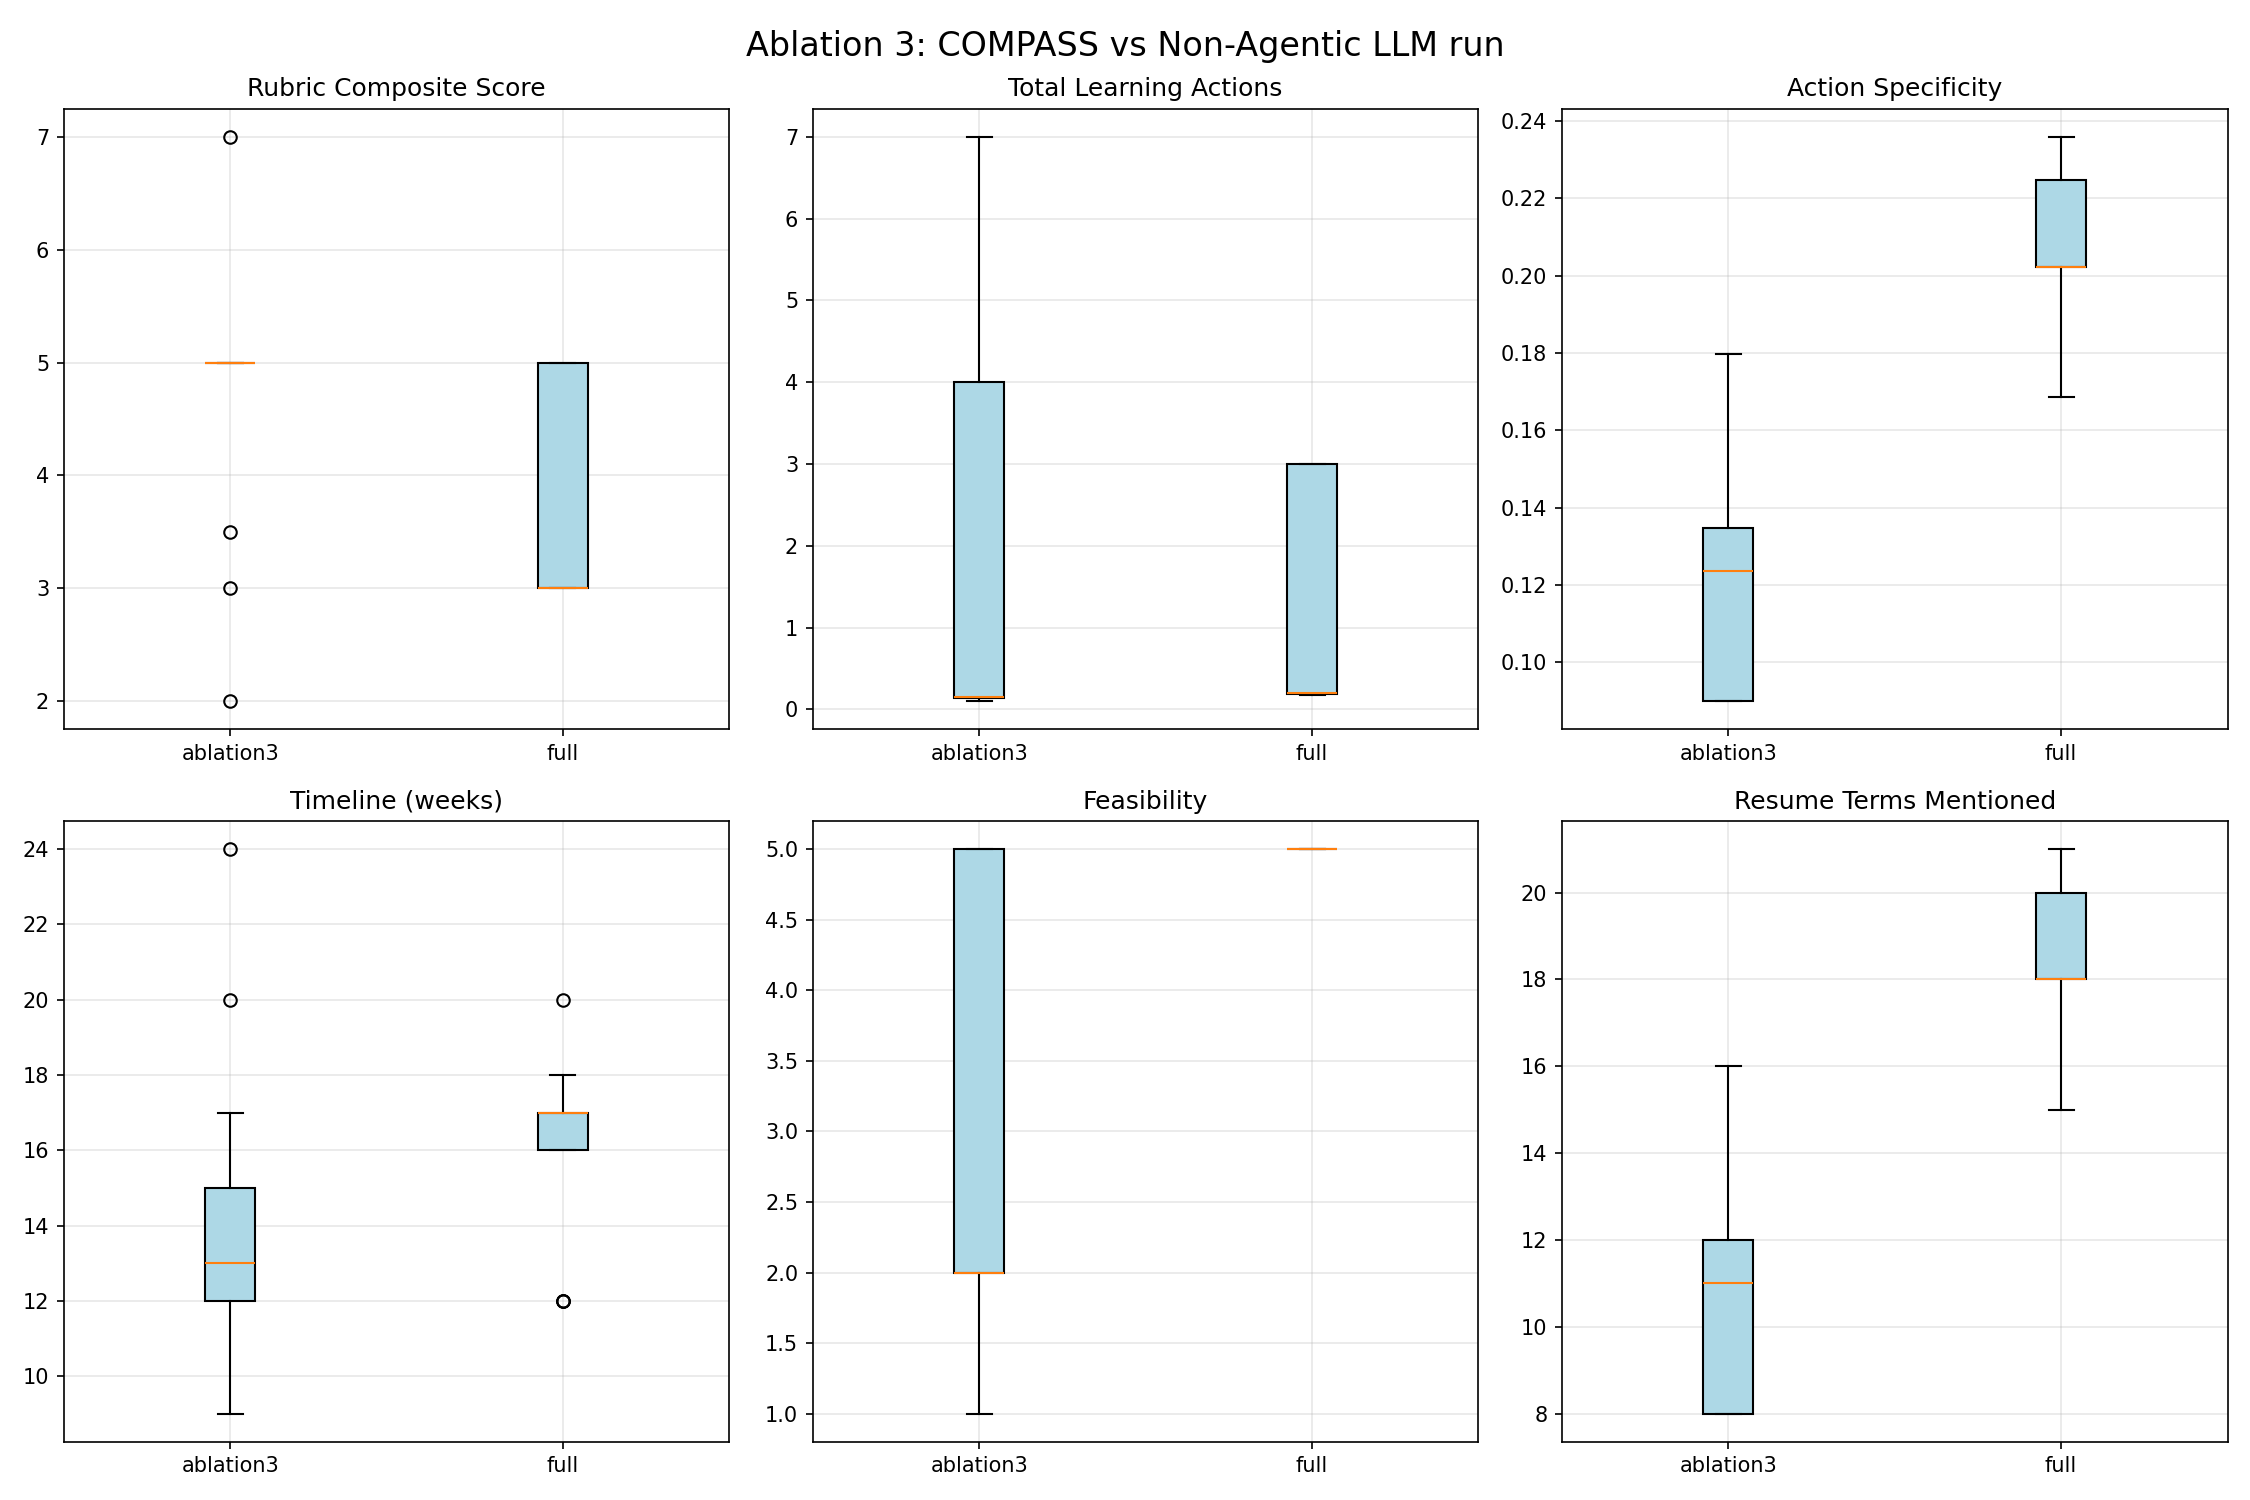
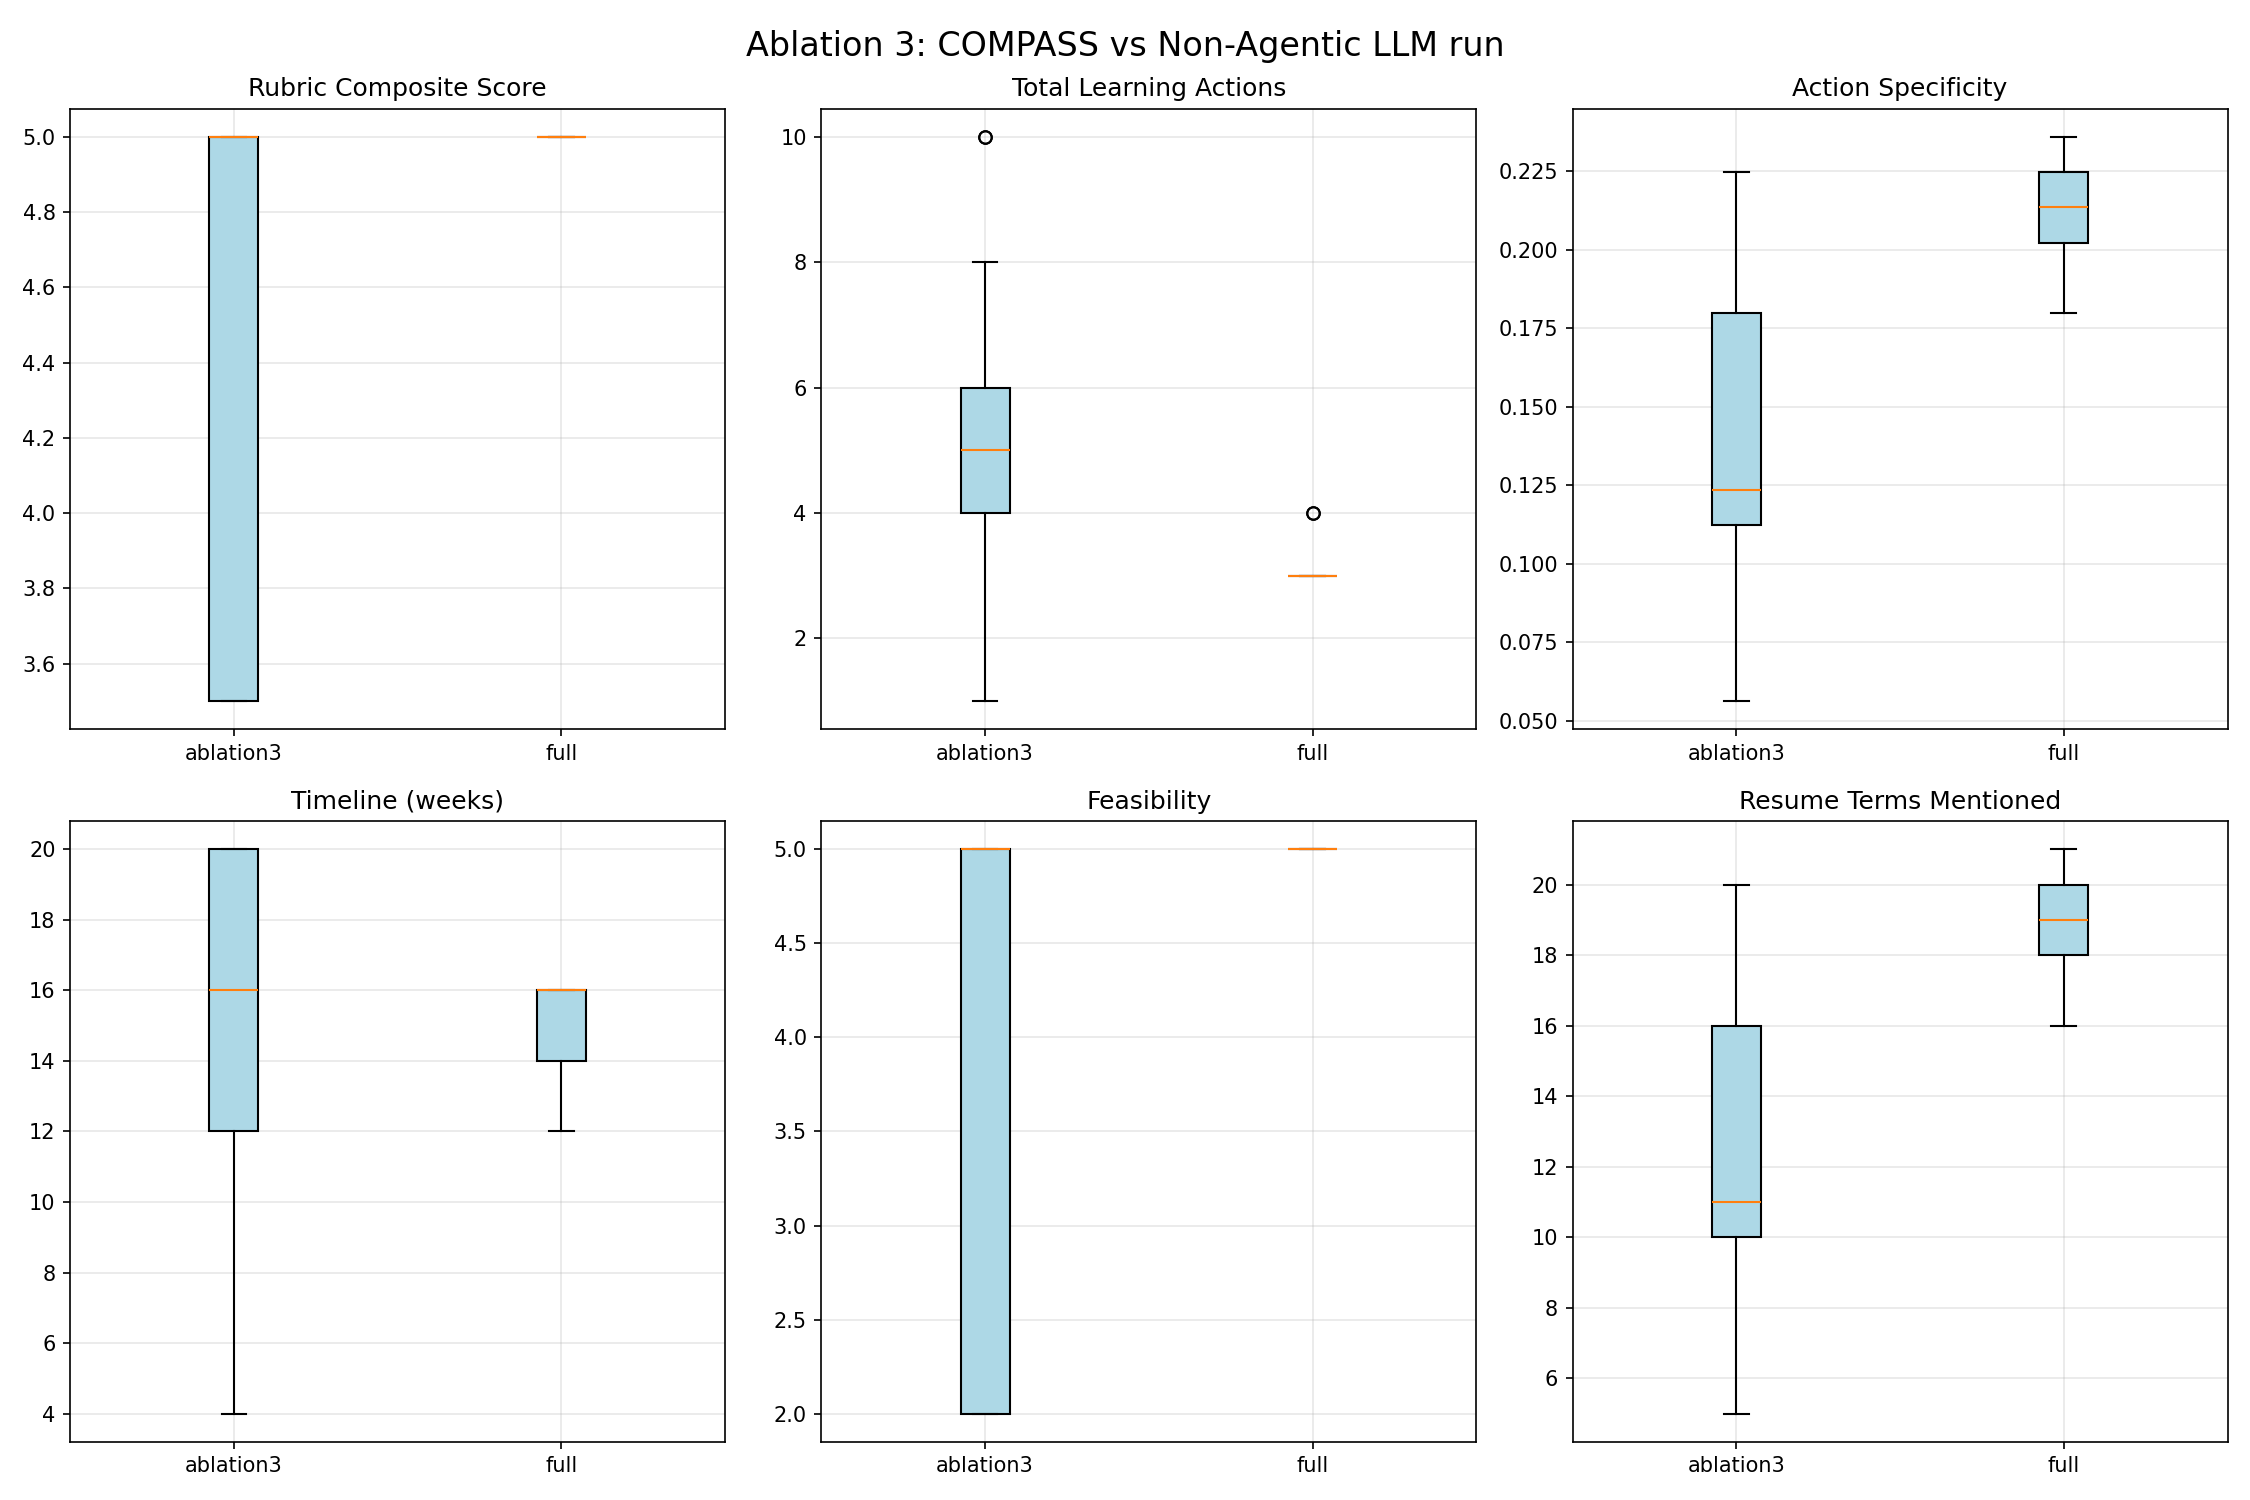
Refactor code structure for improved readability and maintainability

diff --git a/server/analyze_metrics.py b/server/analyze_metrics.py
@@ -261,6 +261,75 @@ def main():
             print(f"  [OK] Saved to {plot_path}")
             plt.close()
 
+            # --- Radar chart: rubric dimensions per condition ---
+            radar_metrics = [
+                ('rubric_composite', 'Composite'),
+                ('rubric_feasibility', 'Feasibility'),
+                ('rubric_level_appropriateness', 'Level\nAppropriateness'),
+                ('rubric_gap_coverage', 'Gap\nCoverage'),
+                ('action_specificity_ratio', 'Action\nSpecificity'),
+            ]
+            radar_labels = [label for _, label in radar_metrics]
+            num_vars = len(radar_labels)
+            angles = np.linspace(0, 2 * np.pi, num_vars, endpoint=False).tolist()
+            angles += angles[:1]  # close the polygon
+
+            fig_r, ax_r = plt.subplots(figsize=(7, 7), subplot_kw=dict(polar=True))
+            fig_r.suptitle("Rubric Profile by Condition", fontsize=14)
+
+            colors = ['#2196F3', '#FF5722', '#4CAF50', '#9C27B0']
+            for color, condition in zip(colors, sorted(grouped.keys())):
+                condition_rows = grouped[condition]
+                vals = []
+                for metric_key, _ in radar_metrics:
+                    raw = [r.get(metric_key) for r in condition_rows]
+                    valid = [v for v in raw if v is not None and isinstance(v, (int, float))]
+                    vals.append(mean(valid) if valid else 0.0)
+                vals += vals[:1]
+                ax_r.plot(angles, vals, color=color, linewidth=2, label=condition)
+                ax_r.fill(angles, vals, color=color, alpha=0.15)
+
+            ax_r.set_xticks(angles[:-1])
+            ax_r.set_xticklabels(radar_labels, size=10)
+            ax_r.set_ylim(0, 5)
+            ax_r.set_yticks([1, 2, 3, 4, 5])
+            ax_r.set_yticklabels(['1', '2', '3', '4', '5'], size=8)
+            ax_r.legend(loc='upper right', bbox_to_anchor=(1.3, 1.1))
+            ax_r.grid(True)
+
+            radar_path = args.output / "radar_chart.png"
+            plt.savefig(radar_path, dpi=150, bbox_inches='tight')
+            print(f"  [OK] Saved to {radar_path}")
+            plt.close()
+
+            # --- Bar chart: satisfactory rate per condition ---
+            conditions_sorted = sorted(grouped.keys())
+            sat_rates = []
+            for condition in conditions_sorted:
+                rows_c = grouped[condition]
+                sat_vals = [r.get('critique_satisfactory') for r in rows_c]
+                sat_vals = [v for v in sat_vals if v is not None]
+                rate = sum(1 for v in sat_vals if v is True) / len(sat_vals) * 100 if sat_vals else 0.0
+                sat_rates.append(rate)
+
+            _, ax_b = plt.subplots(figsize=(6, 5))
+            x_pos = np.arange(len(conditions_sorted))
+            bars = ax_b.bar(x_pos, sat_rates, color=['#2196F3', '#FF5722', '#4CAF50', '#9C27B0'][:len(conditions_sorted)], width=0.5)
+            ax_b.set_xticks(x_pos)
+            ax_b.set_xticklabels(conditions_sorted, fontsize=12)
+            ax_b.set_ylabel('Satisfactory Rate (%)', fontsize=11)
+            ax_b.set_title('Critique Satisfactory Rate by Condition', fontsize=13)
+            ax_b.set_ylim(0, 110)
+            ax_b.grid(axis='y', alpha=0.3)
+            for bar, rate in zip(bars, sat_rates):
+                ax_b.text(bar.get_x() + bar.get_width() / 2, bar.get_height() + 2,
+                          f'{rate:.0f}%', ha='center', va='bottom', fontsize=12, fontweight='bold')
+
+            bar_path = args.output / "satisfactory_rate.png"
+            plt.savefig(bar_path, dpi=150, bbox_inches='tight')
+            print(f"  [OK] Saved to {bar_path}")
+            plt.close()
+
         except ImportError:
             print("  [WARN] matplotlib not found; skipping plots. Install with: pip install matplotlib")
 
